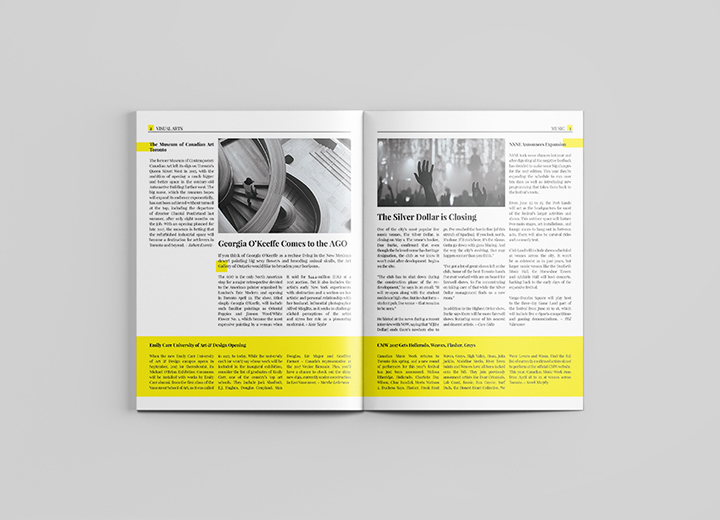
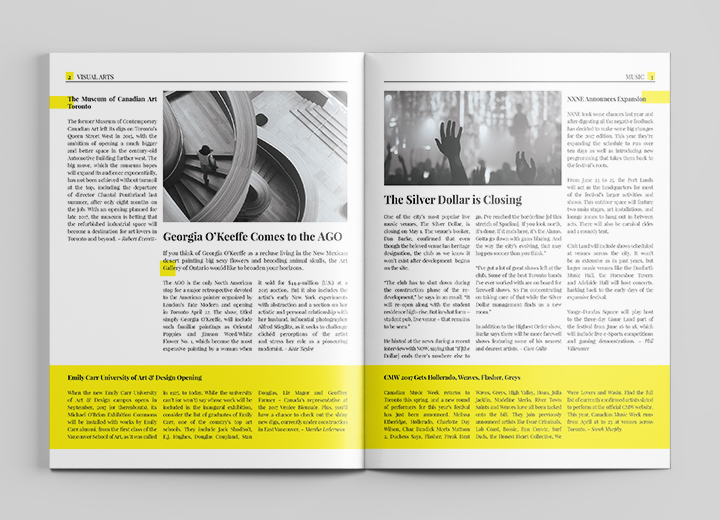
rework

diff --git a/index.html b/index.html
@@ -315,7 +315,7 @@
 
                             <p style="color:#000;text-align:left">The main obstacle addressed through my concept design is that of any lost and found — how do you know you’re returning the item to the right person? I thought of creating a set of predefined tags that users both listing something as lost or as found have to include in their listing. These tags are kept hidden to other users to deter people trying to claim items that aren’t theirs, but are also used behind the scenes to help match people’s items together.</p><br>
                             
-                            <img src="img/work/lostfound/lostfound2.jpg" class="img-responsive img-centered" alt="">
+                            <img src="img/work/lostfound/lostfound1.jpg" class="img-responsive img-centered" alt="">
                             
                             <p style="color:#000;text-align:left">I wanted to challenge myself to adhere to the Material Design guidelines while also maintaining creative control over the design. So while following the design standards in terms of the key lines and margins, I played with the use of different fonts and colours to set the app apart from others that follow Material Design more strictly.</p>
                             
@@ -351,8 +351,19 @@
                             
                             <img src="img/work/artsculture/artsculture3.jpg" class="img-responsive img-centered" alt="">
                             
-                            <p style="color:#000;text-align:left">The newsletter consists of five pages — a cover showcasing a weekly featured photograph or other display of art, a page dedicated to visual arts, one for music, another for film and theatre, and lastly the last page for a fuller display of the cover photo with credits to the artist. Keeping the newsletter short is vital to its longevity as it’s less expensive to produce with less pages, and being a weekly newsletter means it doesn’t need as much information in each issue.</p>
+                            <p style="color:#000;text-align:left">The newsletter consists of five pages — a cover showcasing a weekly featured photograph or other display of art, a page dedicated to visual arts, one for music, another for film and theatre, and lastly the last page for a fuller display of the cover photo with credits to the artist. Keeping the newsletter short is vital to its longevity as it’s less expensive to produce with less pages, and being a weekly newsletter means it doesn’t need as much information in each issue.</p><br>
 
+                            <img src="img/work/artsculture/artsculture4.jpg" class="img-responsive img-centered" alt="">
+                            <img src="img/work/artsculture/artsculture5.jpg" class="img-responsive img-centered" alt="">
+                            <img src="img/work/artsculture/artsculture6.jpg" class="img-responsive img-centered" alt="">
+                            <img src="img/work/artsculture/artsculture7.jpg" class="img-responsive img-centered" alt="">
+                            
+                            <ul class="list-inline item-details">
+                                <li>Credits:
+                                    <strong><a href="https://www.theglobeandmail.com/arts/looking-ahead-at-the-most-exciting-events-across-arts-and-culture-in2017/article33456450/">What’s next? From Chagall to Arcade Fire, Globe Arts staff preview 2017’s best, buzziest events across the worlds of theatre, music, film and visual arts, The Globe And Mail</a> / <a href="https://nowtoronto.com/music/the-silver-dollar-is-closing-too/">The Silver Dollar, as you know it, is closing by Carla Gillis, NOW Magazine</a> / <a href="http://www.blogto.com/music/2016/11/nxne_announces_big_expansion_for_2017/">NXNE announces big expansion for 2017 by Phil Villeneuve, blogTO</a> / <a href="http://exclaim.ca/music/article/cmw_2017_gets_melissa_etheridge_hollerado_charlotte_day_wilson_weaves">CMW 2017 Gets Hollerado, Charlotte Day Wilson, Weaves, Melissa Etheridge by Sarah Murphy, Exclaim!</a> / <a href="http://www.ago.net/cave-small-cave-big">Cave Small Cave Big</a> / <a href="http://www.tiff.net/the-review/a-canadian-movement-toronto-diy-filmmakers/">A Canadian Movement: Toronto's DIY Filmmakers by David Davidson, Toronto International Film Festival</a>
+                                    </strong>
+                                </li>
+                            </ul>
 						</div>
                     </div>
                 </div>
@@ -383,12 +394,26 @@
                             <img src="img/work/citypass/citypass_mockup_print.jpg" class="img-responsive img-centered" alt="">
                             
                             <p style="color:#000;text-align:left">The set of ads are intended for print for magazine, subways, and bus shelters, as these are the central mediums the target audience would be using to find their information.</p><br>
+                            
+                            <img src="img/work/citypass/cntower_alt.jpg" class="img-responsive img-centered" alt="">
+                            <img src="img/work/citypass/zoo_alt.jpg" class="img-responsive img-centered" alt="">
+                            <img src="img/work/citypass/rom_alt.jpg" class="img-responsive img-centered" alt="">
+                            <img src="img/work/citypass/aquarium_alt.jpg" class="img-responsive img-centered" alt="">
+                            <img src="img/work/citypass/casaloma_alt.jpg" class="img-responsive img-centered" alt="">
+
 
                             <img src="img/work/citypass/cntower.jpg" class="img-responsive img-centered" alt="">
                             <img src="img/work/citypass/zoo.jpg" class="img-responsive img-centered" alt="">
                             <img src="img/work/citypass/rom.jpg" class="img-responsive img-centered" alt="">
                             <img src="img/work/citypass/aquarium.jpg" class="img-responsive img-centered" alt="">
                             <img src="img/work/citypass/casaloma.jpg" class="img-responsive img-centered" alt="">
+                            
+                            <ul class="list-inline item-details">
+                                <li>Credits:
+                                    <strong><a href="https://lutify.me/free-luts/?campaign=free-luts&campaign-source=footer&campaign-medium=text-link&campaign-content=footer">LUTs</a>
+                                    </strong>
+                                </li>
+                            </ul>
 						</div>
                     </div>
                 </div>
